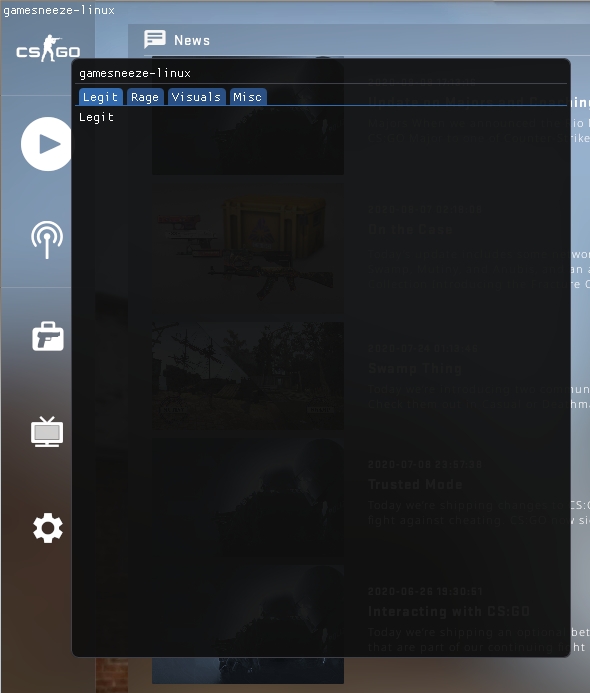
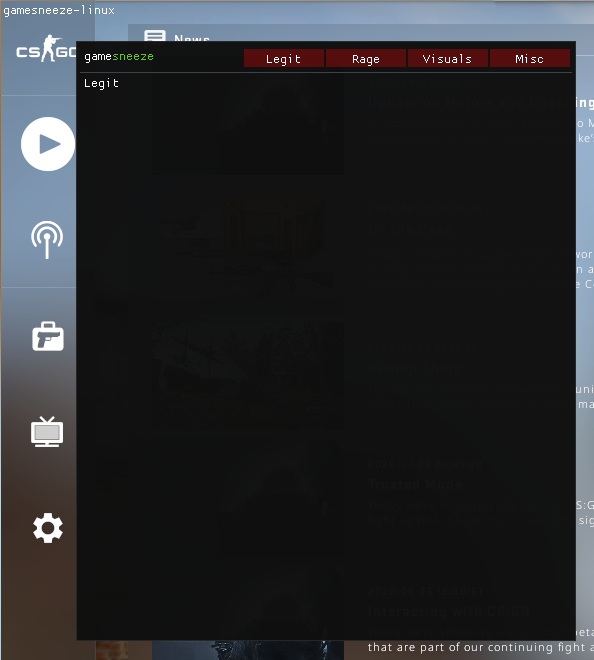
menu themeing :flushed:

Changed region(s): [[0.0305, 0.0303, 1.0, 1.0], [0.0, 0.0, 0.1831, 0.0303]]

diff --git a/src/core/menu/menu.cpp b/src/core/menu/menu.cpp
@@ -45,29 +45,113 @@ void Menu::onSwapWindow(SDL_Window* window) {
     ImGui_ImplOpenGL3_RenderDrawData(ImGui::GetDrawData());
 }
 
+void style() {
+    ImVec4* colors = ImGui::GetStyle().Colors;
+    colors[ImGuiCol_Text]                   = ImVec4(1.00f, 1.00f, 1.00f, 1.00f);
+    colors[ImGuiCol_TextDisabled]           = ImVec4(0.50f, 0.50f, 0.50f, 1.00f);
+    colors[ImGuiCol_WindowBg]               = ImVec4(0.06f, 0.06f, 0.06f, 0.98f);
+    colors[ImGuiCol_ChildBg]                = ImVec4(0.00f, 0.00f, 0.00f, 0.00f);
+    colors[ImGuiCol_PopupBg]                = ImVec4(0.08f, 0.08f, 0.08f, 0.94f);
+    colors[ImGuiCol_Border]                 = ImVec4(0.24f, 0.24f, 0.24f, 0.50f);
+    colors[ImGuiCol_BorderShadow]           = ImVec4(0.00f, 0.00f, 0.00f, 0.00f);
+    colors[ImGuiCol_FrameBg]                = ImVec4(0.50f, 0.04f, 0.04f, 0.62f);
+    colors[ImGuiCol_FrameBgHovered]         = ImVec4(0.81f, 0.19f, 0.19f, 0.40f);
+    colors[ImGuiCol_FrameBgActive]          = ImVec4(0.26f, 0.59f, 0.98f, 0.67f);
+    colors[ImGuiCol_TitleBg]                = ImVec4(0.04f, 0.04f, 0.04f, 1.00f);
+    colors[ImGuiCol_TitleBgActive]          = ImVec4(0.16f, 0.29f, 0.48f, 1.00f);
+    colors[ImGuiCol_TitleBgCollapsed]       = ImVec4(0.00f, 0.00f, 0.00f, 0.51f);
+    colors[ImGuiCol_MenuBarBg]              = ImVec4(0.14f, 0.14f, 0.14f, 1.00f);
+    colors[ImGuiCol_ScrollbarBg]            = ImVec4(0.02f, 0.02f, 0.02f, 0.53f);
+    colors[ImGuiCol_ScrollbarGrab]          = ImVec4(0.39f, 0.39f, 0.39f, 1.00f);
+    colors[ImGuiCol_ScrollbarGrabHovered]   = ImVec4(0.49f, 0.49f, 0.49f, 1.00f);
+    colors[ImGuiCol_ScrollbarGrabActive]    = ImVec4(0.67f, 0.67f, 0.67f, 1.00f);
+    colors[ImGuiCol_CheckMark]              = ImVec4(1.00f, 1.00f, 1.00f, 1.00f);
+    colors[ImGuiCol_SliderGrab]             = ImVec4(0.46f, 0.46f, 0.46f, 1.00f);
+    colors[ImGuiCol_SliderGrabActive]       = ImVec4(0.70f, 0.70f, 0.70f, 1.00f);
+    colors[ImGuiCol_Button]                 = ImVec4(0.50f, 0.04f, 0.04f, 0.62f);
+    colors[ImGuiCol_ButtonHovered]          = ImVec4(0.81f, 0.19f, 0.19f, 0.40f);
+    colors[ImGuiCol_ButtonActive]           = ImVec4(0.61f, 0.15f, 0.15f, 0.40f);
+    colors[ImGuiCol_Header]                 = ImVec4(0.26f, 0.59f, 0.98f, 0.31f);
+    colors[ImGuiCol_HeaderHovered]          = ImVec4(0.26f, 0.59f, 0.98f, 0.80f);
+    colors[ImGuiCol_HeaderActive]           = ImVec4(0.26f, 0.59f, 0.98f, 1.00f);
+    colors[ImGuiCol_Separator]              = ImVec4(0.43f, 0.43f, 0.50f, 0.50f);
+    colors[ImGuiCol_SeparatorHovered]       = ImVec4(0.10f, 0.40f, 0.75f, 0.78f);
+    colors[ImGuiCol_SeparatorActive]        = ImVec4(0.10f, 0.40f, 0.75f, 1.00f);
+    colors[ImGuiCol_ResizeGrip]             = ImVec4(0.26f, 0.59f, 0.98f, 0.25f);
+    colors[ImGuiCol_ResizeGripHovered]      = ImVec4(0.26f, 0.59f, 0.98f, 0.67f);
+    colors[ImGuiCol_ResizeGripActive]       = ImVec4(0.26f, 0.59f, 0.98f, 0.95f);
+    colors[ImGuiCol_Tab]                    = ImVec4(0.50f, 0.04f, 0.04f, 0.62f);
+    colors[ImGuiCol_TabHovered]             = ImVec4(0.81f, 0.19f, 0.19f, 0.62f);
+    colors[ImGuiCol_TabActive]              = ImVec4(0.75f, 0.15f, 0.15f, 0.62f);
+    colors[ImGuiCol_TabUnfocused]           = ImVec4(0.07f, 0.10f, 0.15f, 0.97f);
+    colors[ImGuiCol_TabUnfocusedActive]     = ImVec4(0.14f, 0.26f, 0.42f, 1.00f);
+    colors[ImGuiCol_PlotLines]              = ImVec4(0.61f, 0.61f, 0.61f, 1.00f);
+    colors[ImGuiCol_PlotLinesHovered]       = ImVec4(1.00f, 0.43f, 0.35f, 1.00f);
+    colors[ImGuiCol_PlotHistogram]          = ImVec4(0.90f, 0.70f, 0.00f, 1.00f);
+    colors[ImGuiCol_PlotHistogramHovered]   = ImVec4(1.00f, 0.60f, 0.00f, 1.00f);
+    colors[ImGuiCol_TextSelectedBg]         = ImVec4(0.26f, 0.59f, 0.98f, 0.35f);
+    colors[ImGuiCol_DragDropTarget]         = ImVec4(1.00f, 1.00f, 0.00f, 0.90f);
+    colors[ImGuiCol_NavHighlight]           = ImVec4(0.26f, 0.59f, 0.98f, 1.00f);
+    colors[ImGuiCol_NavWindowingHighlight]  = ImVec4(1.00f, 1.00f, 1.00f, 0.70f);
+    colors[ImGuiCol_NavWindowingDimBg]      = ImVec4(0.80f, 0.80f, 0.80f, 0.20f);
+    colors[ImGuiCol_ModalWindowDimBg]       = ImVec4(0.80f, 0.80f, 0.80f, 0.35f);
+
+    ImGui::GetStyle().ScrollbarSize = 8;
+    ImGui::GetStyle().ScrollbarRounding = 0;
+    ImGui::GetStyle().WindowRounding = 0;
+    ImGui::GetStyle().TabRounding = 2;
+    ImGui::GetStyle().FrameRounding = 0;
+    ImGui::GetStyle().TabRounding = 2;
+    ImGui::GetStyle().TabRounding = 2;
+    ImGui::GetStyle().TabRounding = 2;
+    ImGui::GetStyle().TabRounding = 2;
+    ImGui::GetStyle().TabRounding = 2;
+    ImGui::GetStyle().TabRounding = 2;
+}
+
 void Menu::drawMenu() {
+    style();
     ImGui::SetNextWindowSize(ImVec2{500, 600});
     ImGui::Begin("gamesneeze-linux", nullptr, ImGuiWindowFlags_NoTitleBar | ImGuiWindowFlags_NoResize | ImGuiWindowFlags_NoCollapse);
-    ImGui::Text("gamesneeze-linux");
-    ImGui::Separator();
-    if (ImGui::BeginTabBar("mainTabs")) {
-        if(ImGui::BeginTabItem("Legit")) {
-            ImGui::Text("Legit");
-            ImGui::EndTabItem();
-        }
-        if(ImGui::BeginTabItem("Rage")) {
-            ImGui::Text("Rage");
-            ImGui::EndTabItem();
-        }
-        if(ImGui::BeginTabItem("Visuals")) {
-            ImGui::Text("Visuals");
-            ImGui::EndTabItem();
-        }
-        if(ImGui::BeginTabItem("Misc")) {
-            ImGui::Text("Misc");
-            ImGui::EndTabItem();
-        }
-    ImGui::EndTabBar();
+    ImGui::PushStyleVar(ImGuiStyleVar_ItemSpacing, ImVec2(0, 4));
+    ImGui::Text("game"); ImGui::SameLine(); ImGui::PopStyleVar(); 
+    ImGui::PushStyleVar(ImGuiStyleVar_ItemSpacing, ImVec2(90, 5)); 
+    ImGui::TextColored(ImColor(108, 195, 18, 255), "sneeze");
+    ImGui::SameLine(); 
+    ImGui::PopStyleVar();
+
+    auto bWidth = ImVec2(80, 18);
+    ImGui::PushStyleVar(ImGuiStyleVar_ItemSpacing, ImVec2(2, 5));
+    if (ImGui::Button("Legit", bWidth)) {
+        Menu::tabSelected = 0;
+    } ImGui::SameLine(); 
+    if (ImGui::Button("Rage", bWidth)) {
+        Menu::tabSelected = 1;
+    } ImGui::SameLine(); 
+    if (ImGui::Button("Visuals", bWidth)) {
+        Menu::tabSelected = 2;
+    } ImGui::SameLine(); 
+    if (ImGui::Button("Misc", bWidth)) {
+        Menu::tabSelected = 3;
     }
+    ImGui::PopStyleVar();
+
+    ImGui::Separator();
+
+    switch(tabSelected) {
+        case 0: {
+            ImGui::Text("Legit"); break;
+        }
+        case 1: {
+            ImGui::Text("Rage"); break;
+        }
+        case 2: {
+            ImGui::Text("Visuals"); break;
+        }
+        case 3: {
+            ImGui::Text("Misc"); break;
+        }
+    }
+
     ImGui::End();
 }

diff --git a/src/core/menu/menu.hpp b/src/core/menu/menu.hpp
@@ -1,6 +1,7 @@
 namespace Menu {
     inline bool open = true;
     inline bool initialised = false;
+    inline int tabSelected = 0;
 
     void drawMenu();
     void drawOverlay(ImDrawList* drawList);
